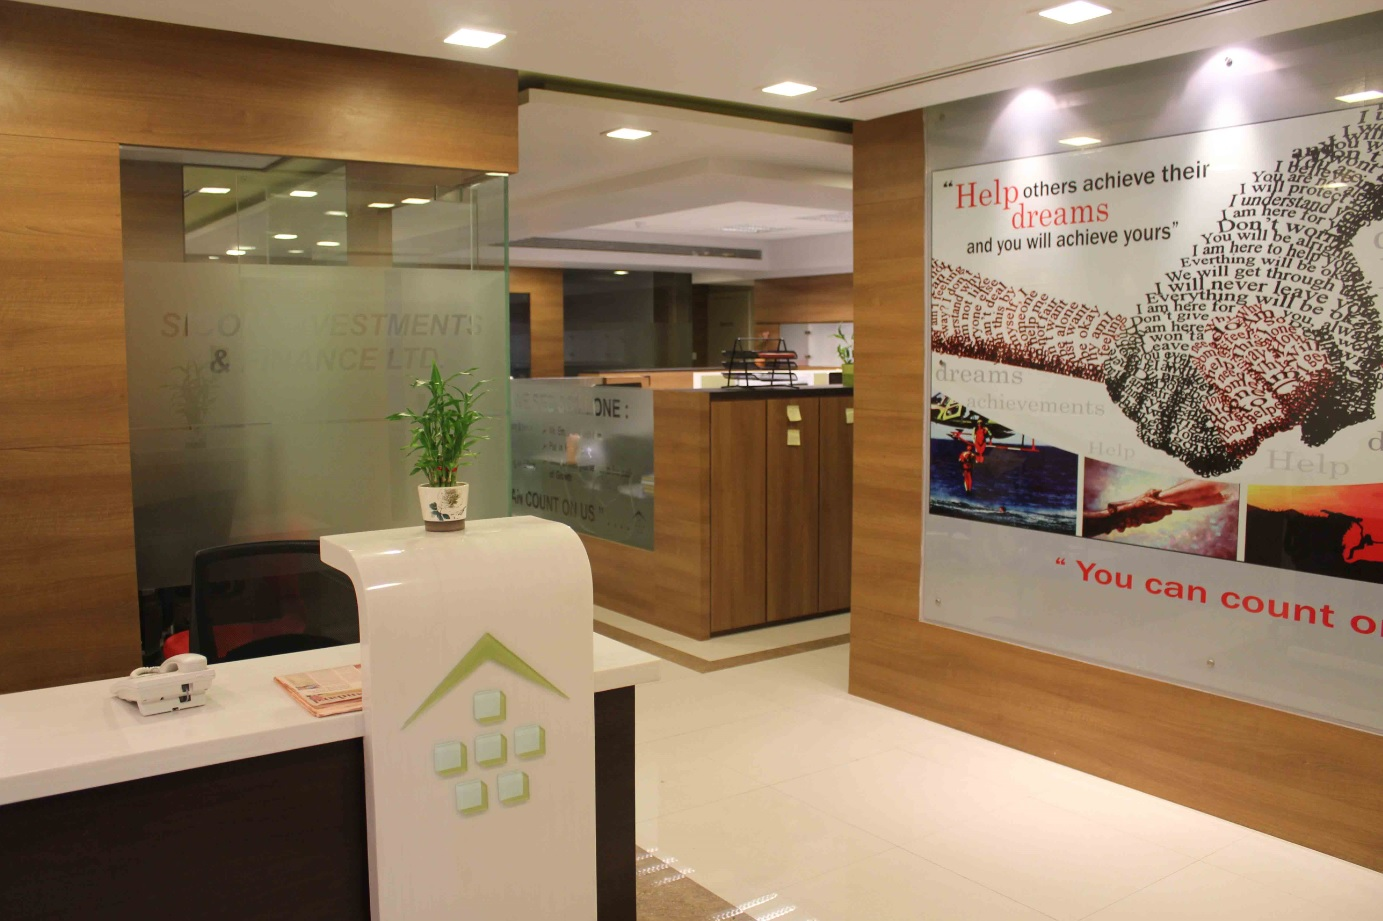
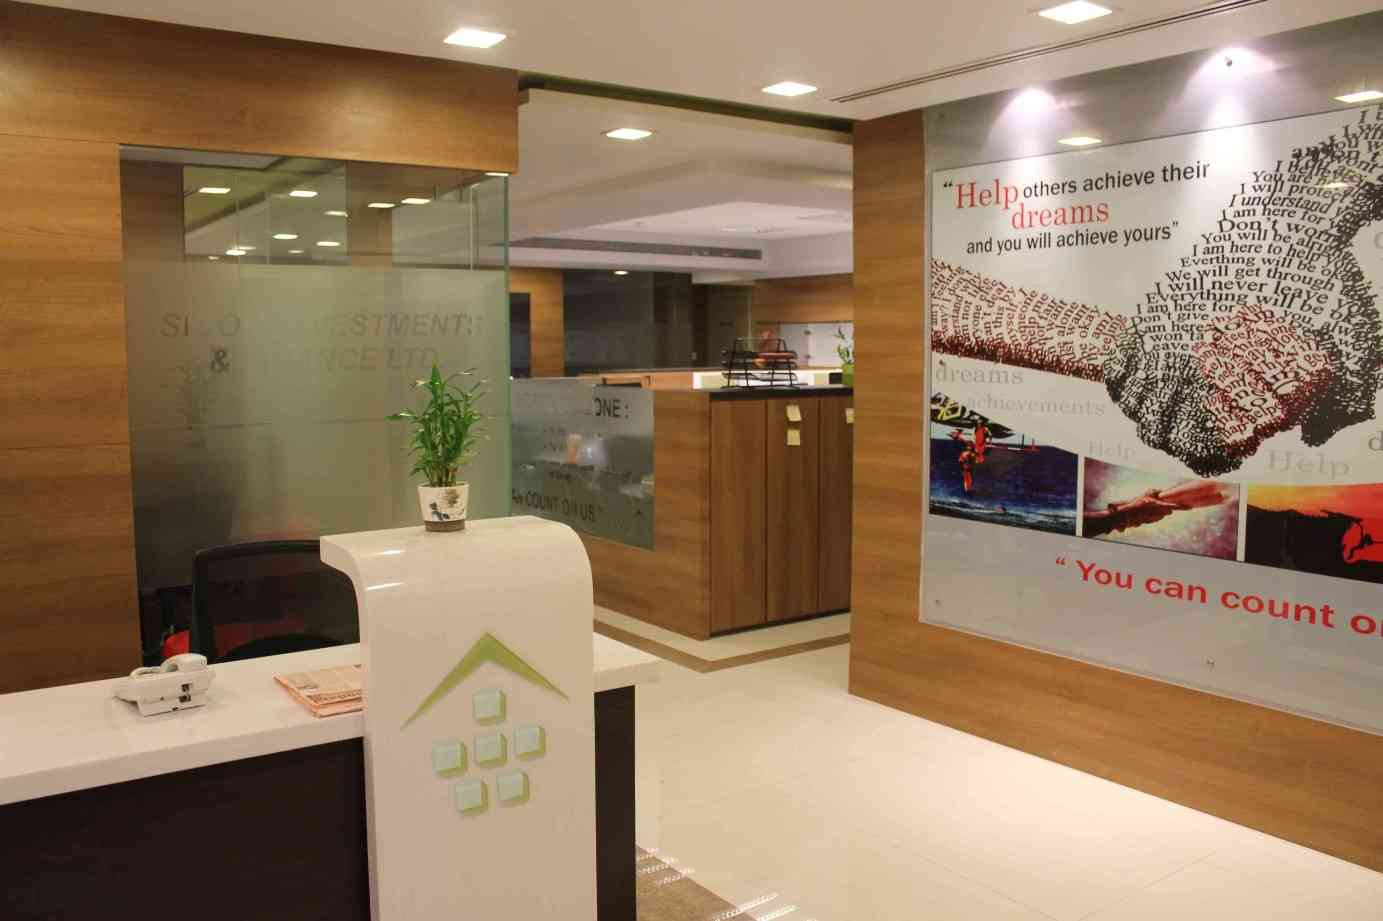
img optimize

diff --git a/index.html b/index.html
@@ -46,8 +46,10 @@
                 Naigaon, Mumbai, Maharashtra, India
             </span>
             <span class="flex items-center">
+                <a href="tel:+919820386875">
                 <i class="fas fa-phone mr-2"></i>
                 +91 98203 86875
+                </a>
             </span>
         </div>
         <span class="flex items-center">
@@ -395,7 +397,7 @@
                                 </div>
                 <!-- Project Card 3 -->
                 <div class="group relative w-full aspect-[4/3] overflow-hidden rounded-lg">
-                    <img src="/img/04.png" alt="Modern Office Design" class="absolute inset-0 w-full h-full object-cover object-center transition-transform duration-700 group-hover:scale-110">
+                    <img src="/img/04.jpeg" alt="Modern Office Design" class="absolute inset-0 w-full h-full object-cover object-center transition-transform duration-700 group-hover:scale-110">
 
                     <div class="absolute inset-0 bg-gradient-to-t from-black/70 to-transparent">
                         <div class="absolute bottom-0 left-0 p-6 md:p-8 text-white">
@@ -504,7 +506,7 @@
                         </div>
                     </div><div class="project-card">
                         <div class="project-images">
-                            <img src="/img/LIVING_VIEW_01.png" alt="Office Design 1">
+                            <img src="/img/LIVING_VIEW_01.jpeg" alt="Office Design 1">
                         </div>
                         <div class="project-overlay">
                             <span class="project-category">Mr. Atif's House</span>
@@ -633,7 +635,7 @@
                     <div class="project-card">
 
                         <div class="project-images">
-                            <img src="/img/04.png" alt="Office Design 1">
+                            <img src="/img/04.jpeg" alt="Office Design 1">
                         </div>
                         <div class="project-overlay">
                             <span class="project-category">99 PANCAKES CAFE</span>
@@ -649,7 +651,7 @@
                         </div>
                     </div><div class="project-card">
                         <div class="project-images">
-                            <img src="/img/B.png" alt="Office Design 1">
+                            <img src="/img/B.jpeg" alt="Office Design 1">
                         </div>
                         <div class="project-overlay">
                             <span class="project-category">99 PANCAKES CAFE</span>
@@ -971,10 +973,13 @@
             <h3 class="text-2xl font-light mb-6">Contact Us</h3>
             <div class="flex flex-wrap justify-center gap-8 text-gray-400">
                 <span class="flex items-center">
+
+                    <a href="tel:+917208394756">
                     <svg class="w-5 h-5 mr-2" fill="none" stroke="currentColor" viewBox="0 0 24 24">
                         <path stroke-linecap="round" stroke-linejoin="round" stroke-width="2" d="M3 5a2 2 0 012-2h3.28a1 1 0 01.948.684l1.498 4.493a1 1 0 01-.502 1.21l-2.257 1.13a11.042 11.042 0 005.516 5.516l1.13-2.257a1 1 0 011.21-.502l4.493 1.498a1 1 0 01.684.949V19a2 2 0 01-2 2h-1C9.716 21 3 14.284 3 6V5z"/>
                     </svg>
                     7208394756
+                    </a>
                 </span>
                 <span class="flex items-center">
                     <svg class="w-5 h-5 mr-2" fill="none" stroke="currentColor" viewBox="0 0 24 24">
